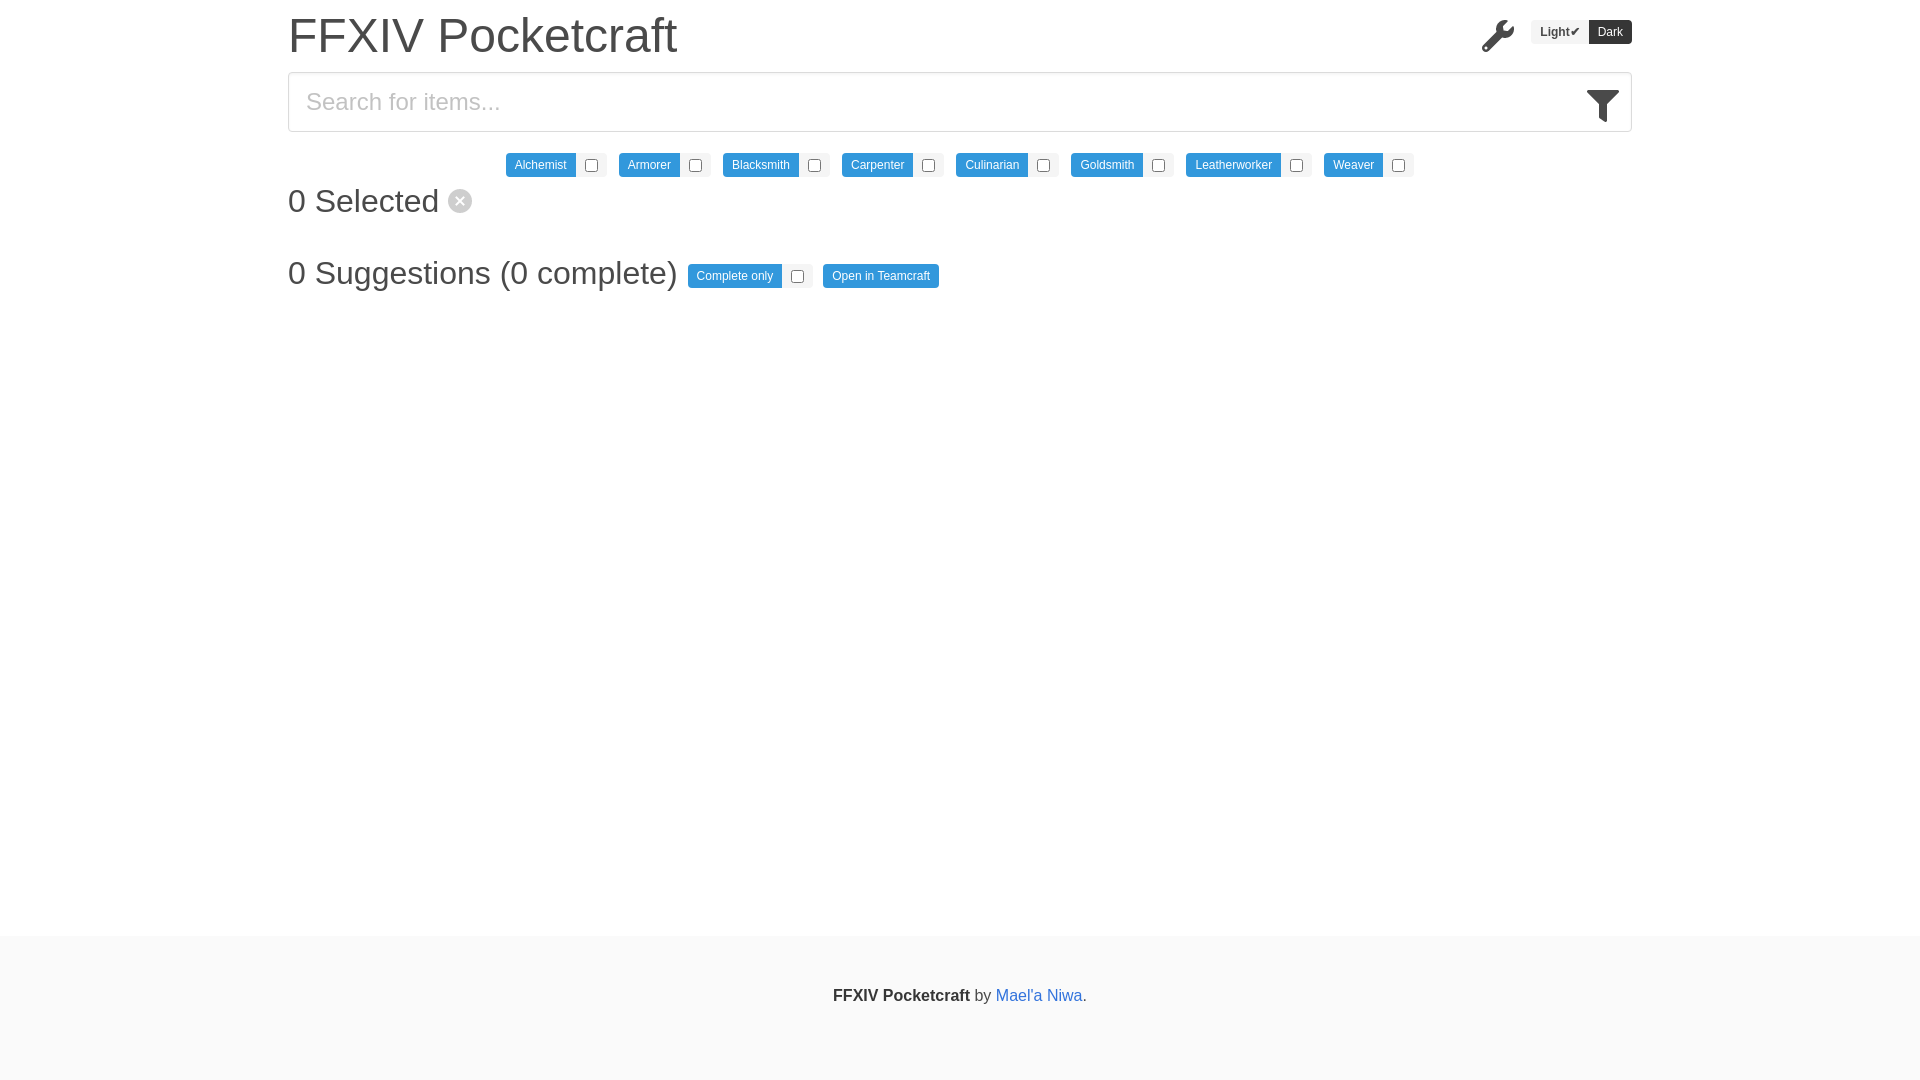
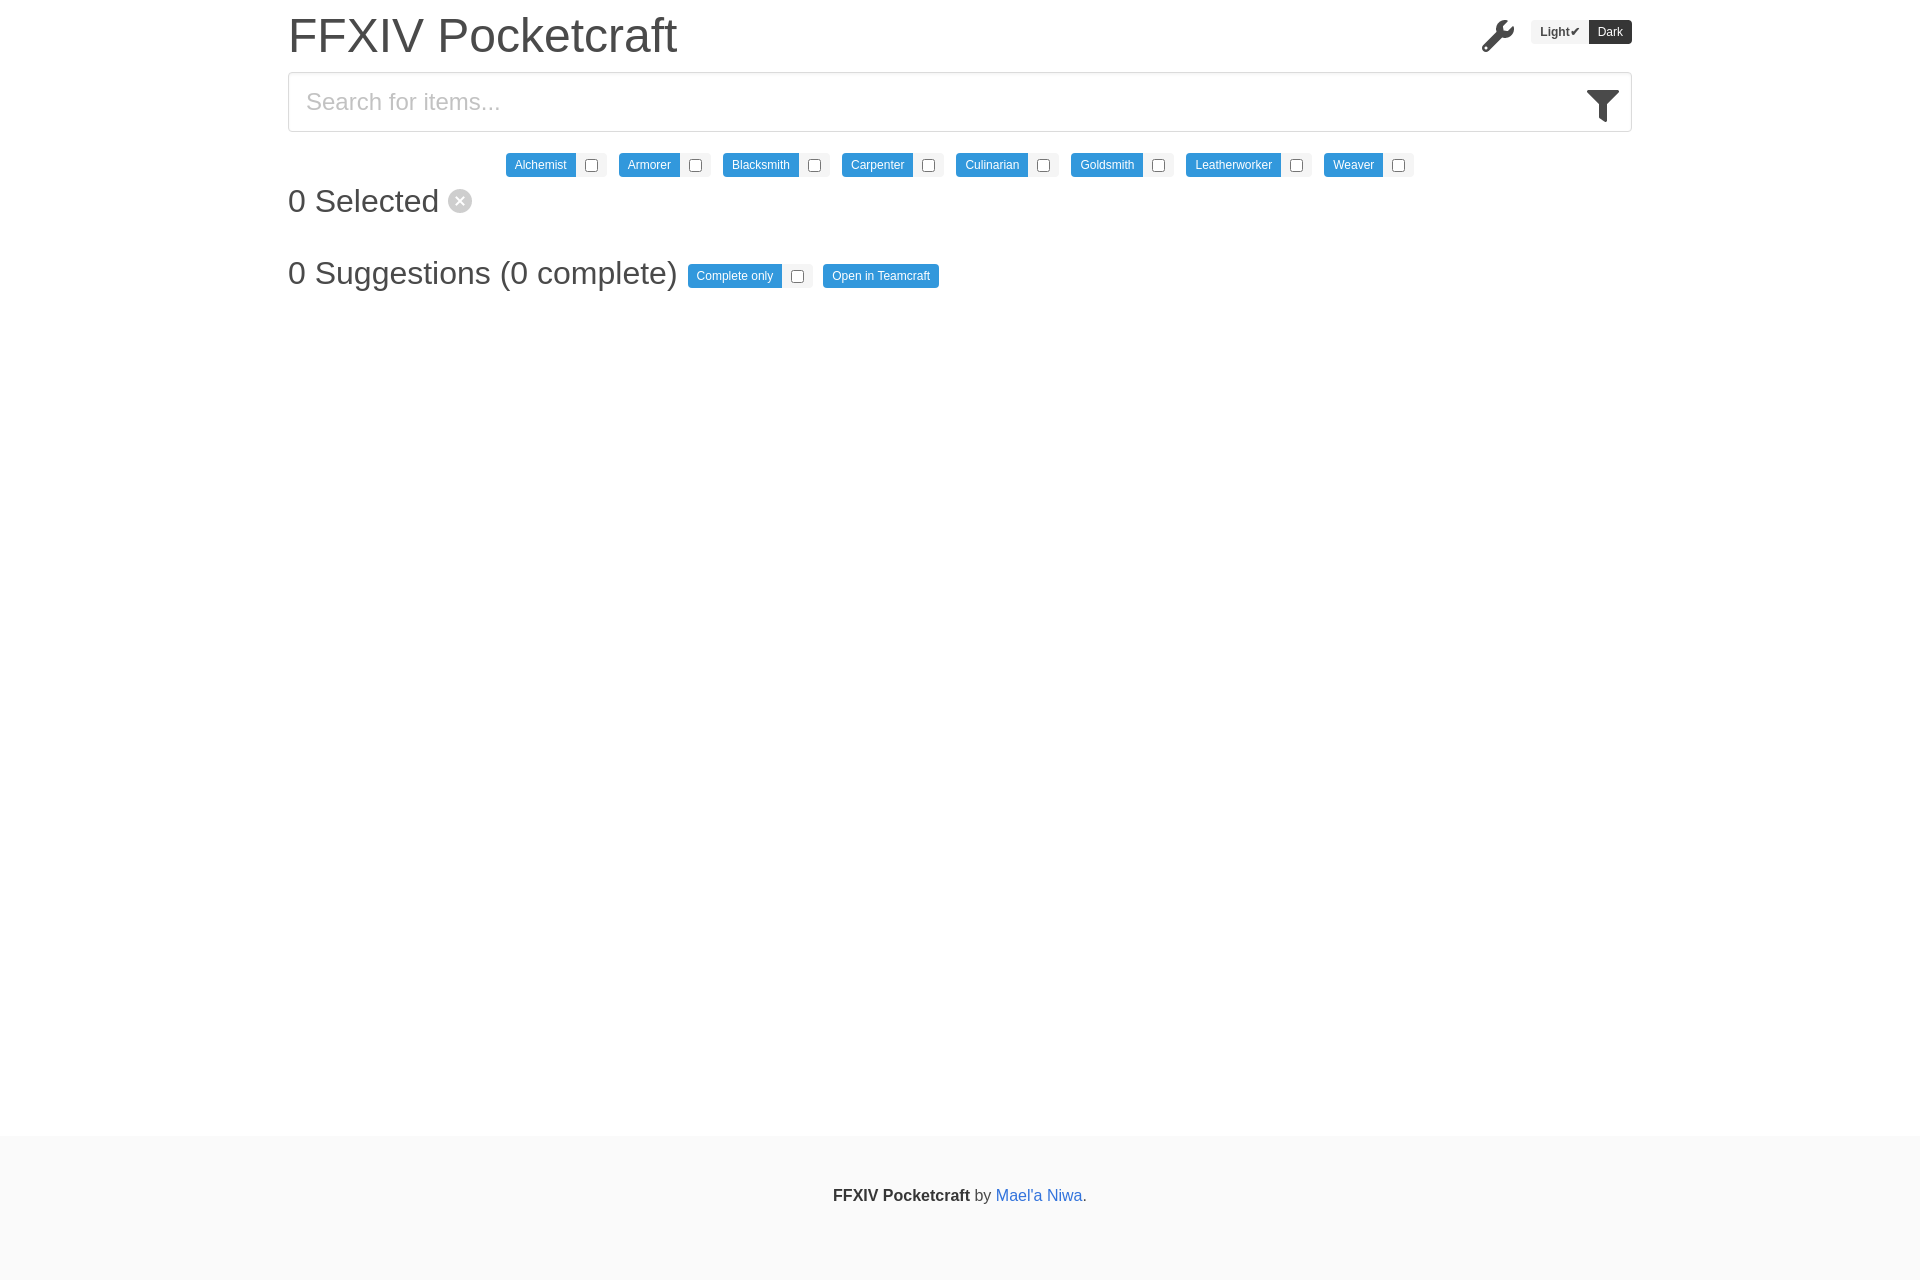
fix: Correct ratio for project screenshots

diff --git a/scripts/get-screenshots.ts b/scripts/get-screenshots.ts
@@ -12,7 +12,7 @@ async function run() {
       try {
         const page = await browser.newPage();
         await page.goto(d.url, { waitUntil: "networkidle0", timeout: 60000 });
-        await page.setViewport({ width: 1920, height: 1080 });
+        await page.setViewport({ width: 1920, height: 1280 });
         await page.screenshot({
           path: `./assets/projects/${name}.png`,
           type: "png",
